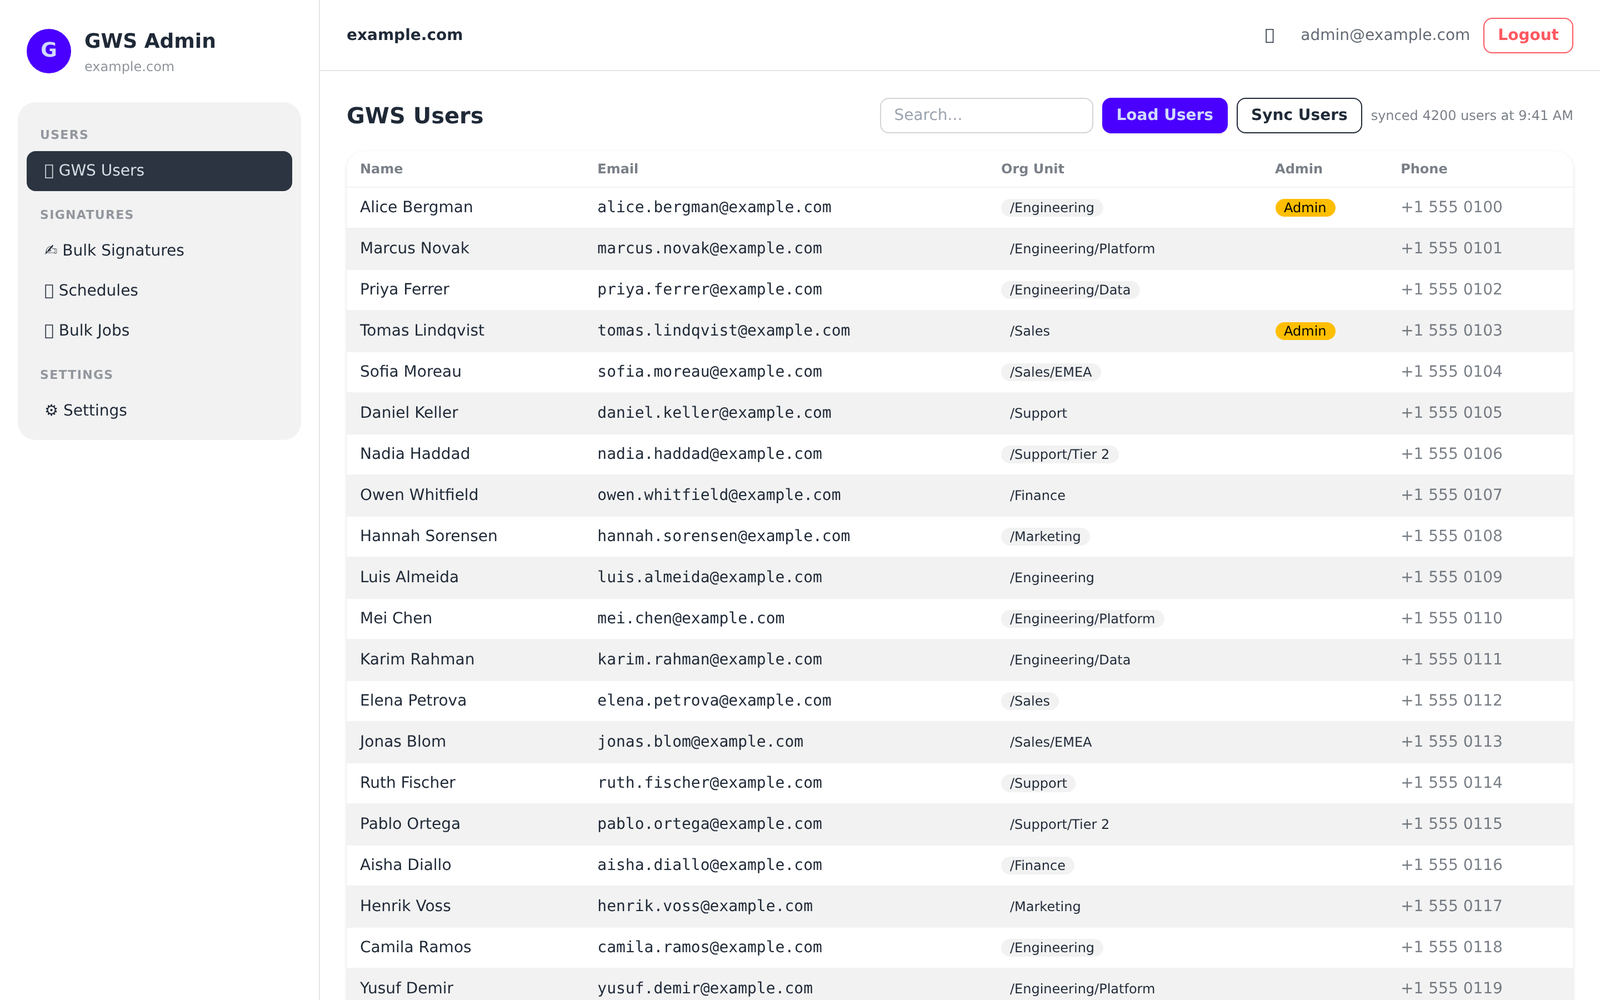
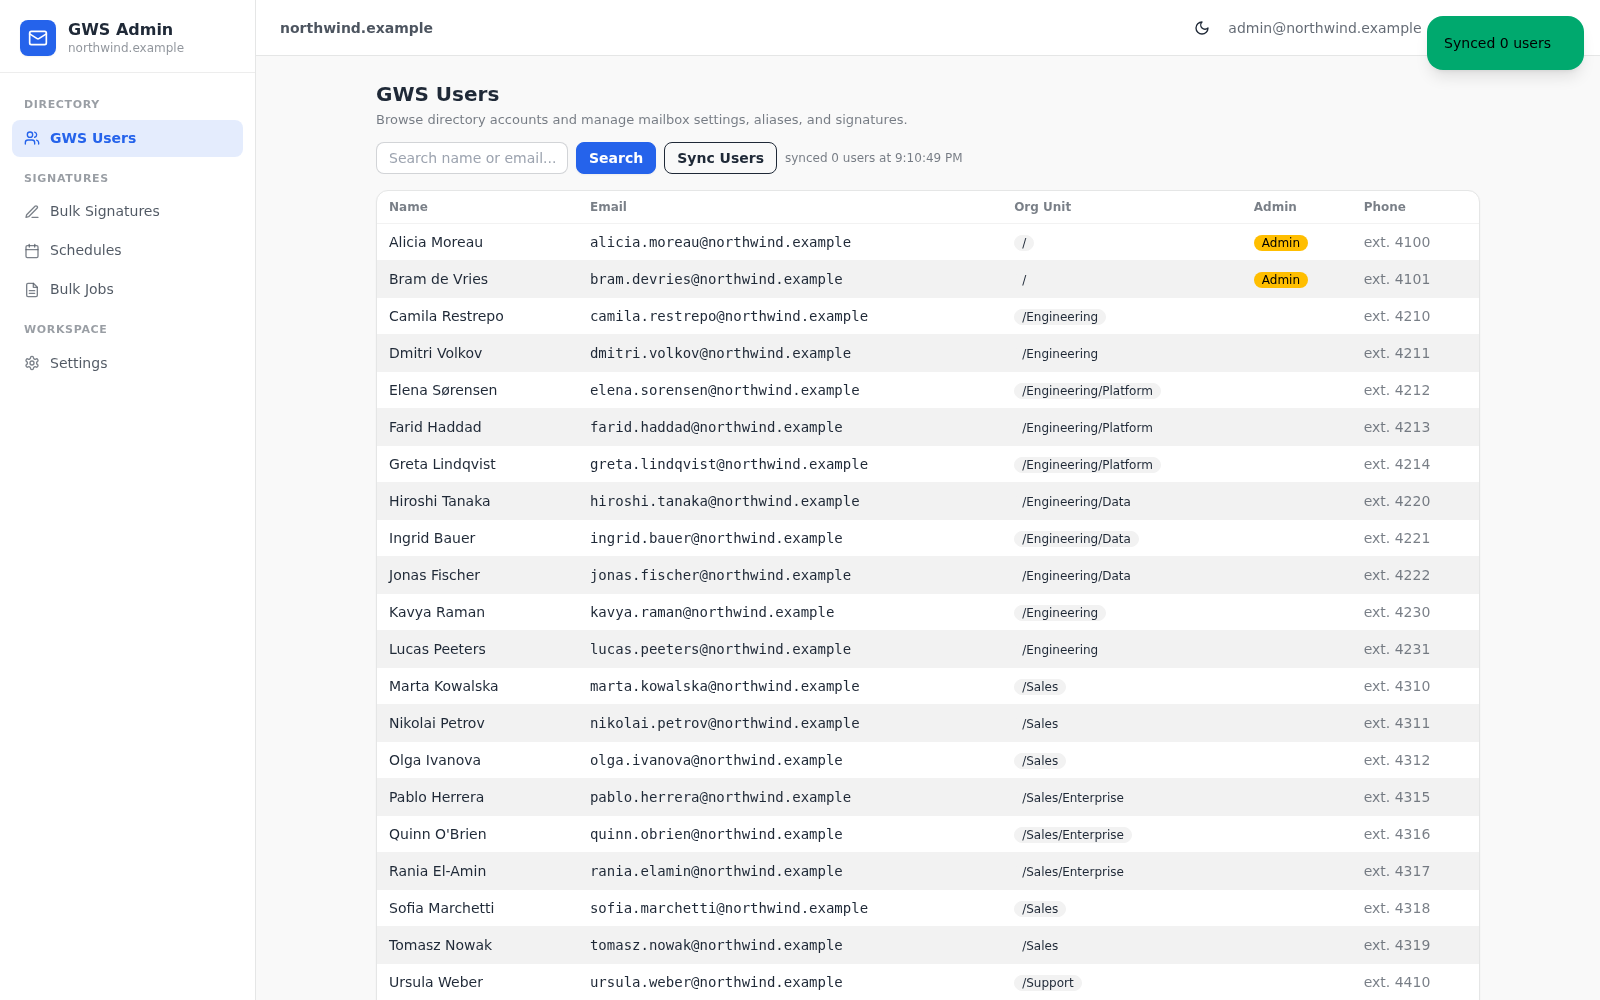
docs: retake every screenshot, and cover the new features
The image set was from the previous build and predated signature gallery,
Send-As preflight and vacation scheduling. Recaptured all of them from the real
frontend against a stub API (invented data, northwind.example).

Ten shots now, renamed so the order follows the workflow:
  01-users                 06-schedules
  02-signature-gallery     07-vacation-schedules
  03-user-signature        08-bulk-jobs
  04-send-as-audit         09-settings
  05-bulk-signatures       10-audience

New: signature gallery (22 templates), Send-As preflight report, vacation
responder with scheduled pushes. Dropped the standalone schedule-editor shot;
the schedules list carries that section now.

README screenshot tables updated to match, grouped Users -> templates and
vacation -> bulk -> preflight/schedules -> jobs/settings.

PNG total 1.7MB -> 1.1MB.

diff --git a/README.md b/README.md
@@ -483,8 +483,19 @@ user at a time, or in bulk.
 
 | | |
 |---|---|
-| ![Users list](docs/screenshots/01-users.png) | ![Editing one user's signature](docs/screenshots/02-user-signature.png) |
+| ![Users list](docs/screenshots/01-users.png) | ![Editing one user's signature](docs/screenshots/03-user-signature.png) |
 | **Users** — every account in the domain with its org unit, admin flag and phone. | **One user's signature** — the same editor serves a single user or an audience. |
+
+### Signature templates and vacation scheduling
+
+22 built-in templates, built as fixed-width email-safe tables so a signature
+renders the same in Gmail, Outlook and Apple Mail. Placeholders are filled per
+person. Vacation responders can be pushed now or scheduled for a date.
+
+| | |
+|---|---|
+| ![Signature template gallery](docs/screenshots/02-signature-gallery.png) | ![Vacation responder with scheduled pushes](docs/screenshots/07-vacation-schedules.png) |
+| **Signature gallery** — 22 templates, filtered by style, with a live preview. | **Vacation responder** — plus scheduled pushes that go live on a date you pick. |
 
 ### Bulk apply
 
@@ -494,19 +505,21 @@ retry, and a dry run that renders every signature without calling Google.
 
 | | |
 |---|---|
-| ![Bulk signatures](docs/screenshots/03-bulk-signatures.png) | ![Audience builder](docs/screenshots/04-audience.png) |
+| ![Bulk signatures](docs/screenshots/05-bulk-signatures.png) | ![Audience builder](docs/screenshots/10-audience.png) |
 | **Bulk signatures** — the editor, the saved templates, and the apply control. | **Audience** — org units, groups and a text filter, with a live recipient count. |
 
-### Schedules and job history
+**Send-As preflight** — a read-only check you can run before applying: each
+recipient's default Send-As alias and whether that address is verified. It
+reports; it changes nothing.
 
 | | |
 |---|---|
-| ![Schedules](docs/screenshots/05-schedules.png) | ![Schedule editor](docs/screenshots/06-schedule-editor.png) |
-| **Schedules** — daily, weekday, monthly or interval, with run counters. | **A schedule** — frequency, time, audience and template. |
+| ![Send-As preflight report](docs/screenshots/04-send-as-audit.png) | ![Schedules](docs/screenshots/06-schedules.png) |
+| **Send-As preflight** — the default alias per recipient and its verification status. | **Schedules** — daily, weekday, monthly or interval, with run counters. |
 
 | | |
 |---|---|
-| ![Bulk jobs](docs/screenshots/07-bulk-jobs.png) | ![Settings](docs/screenshots/08-settings.png) |
+| ![Bulk jobs](docs/screenshots/08-bulk-jobs.png) | ![Settings](docs/screenshots/09-settings.png) |
 | **Bulk jobs** — every run, with progress and the Google throttling readout. | **Settings** — connect the domain, set the webhook, and read the build you are running. |
 
 > **Note on bulk:** bulk apply covers **signatures**. Delegation, forwarding,
